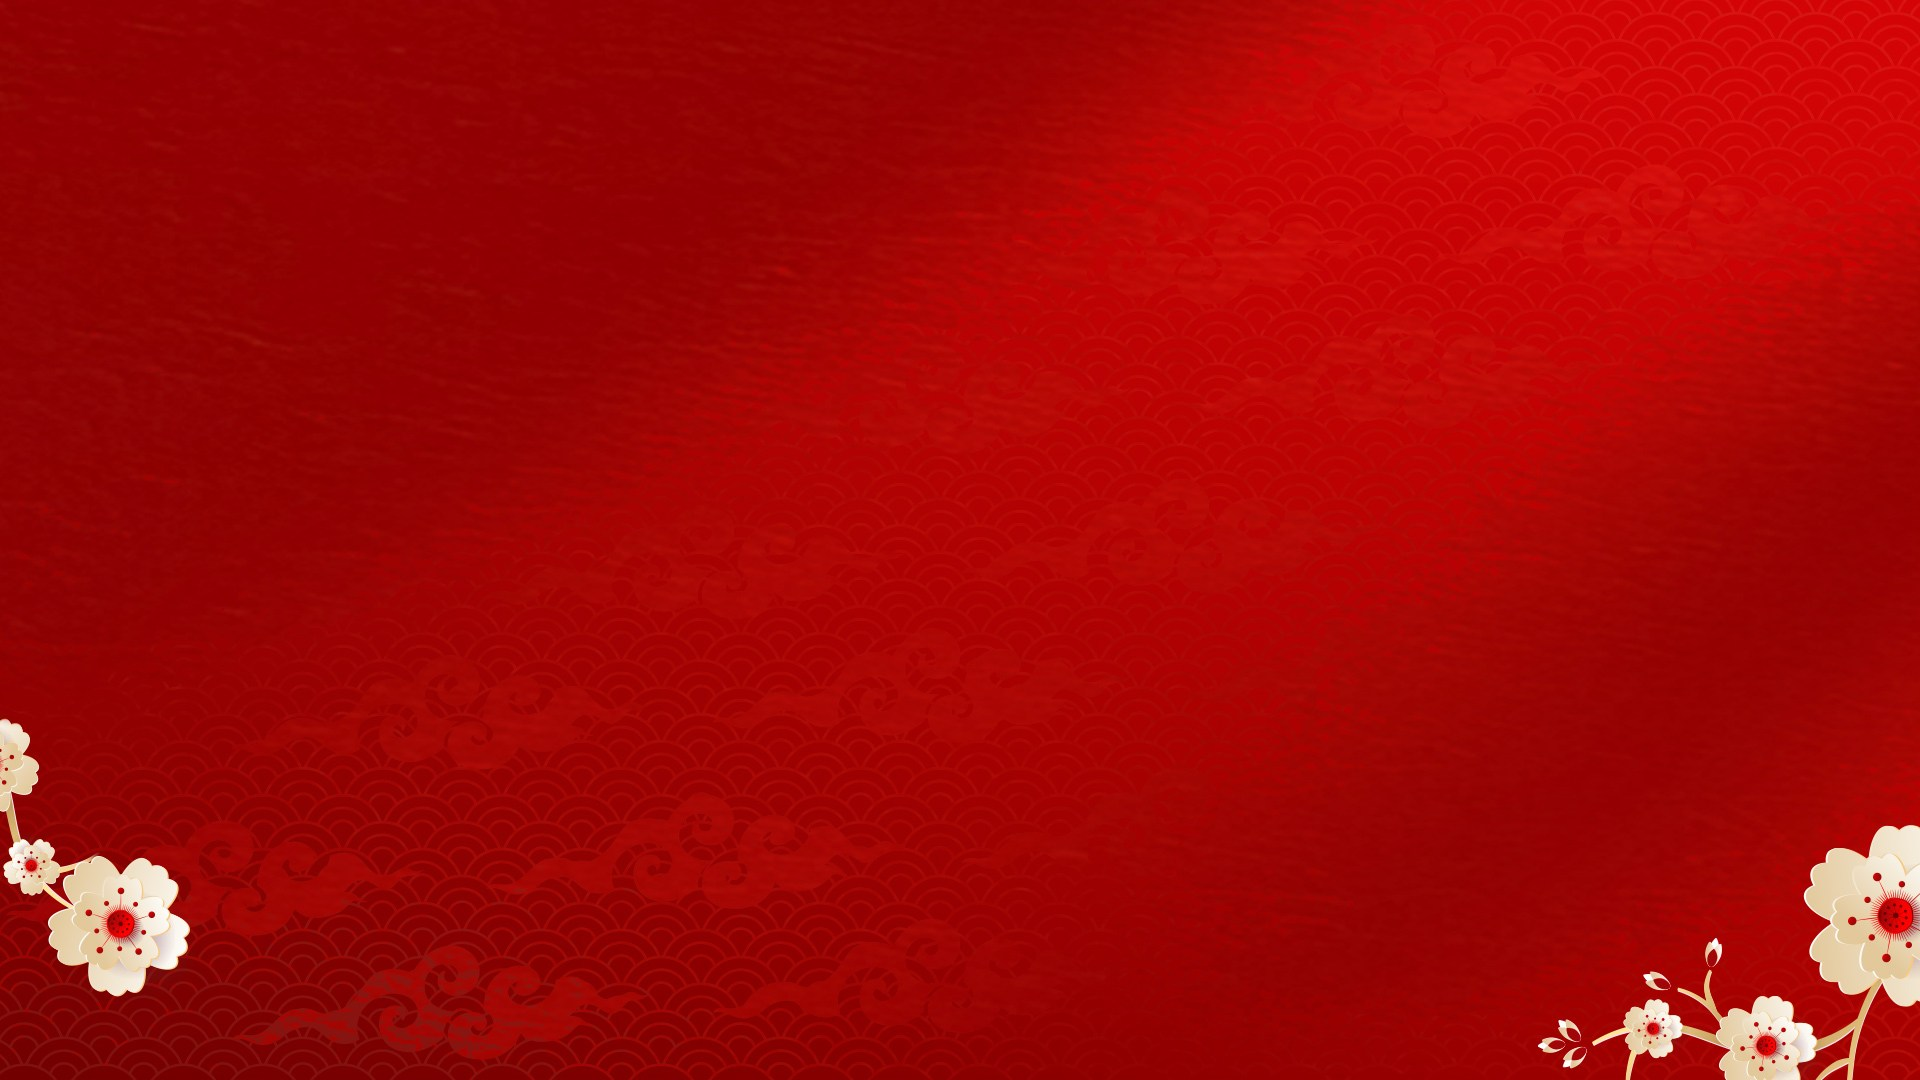
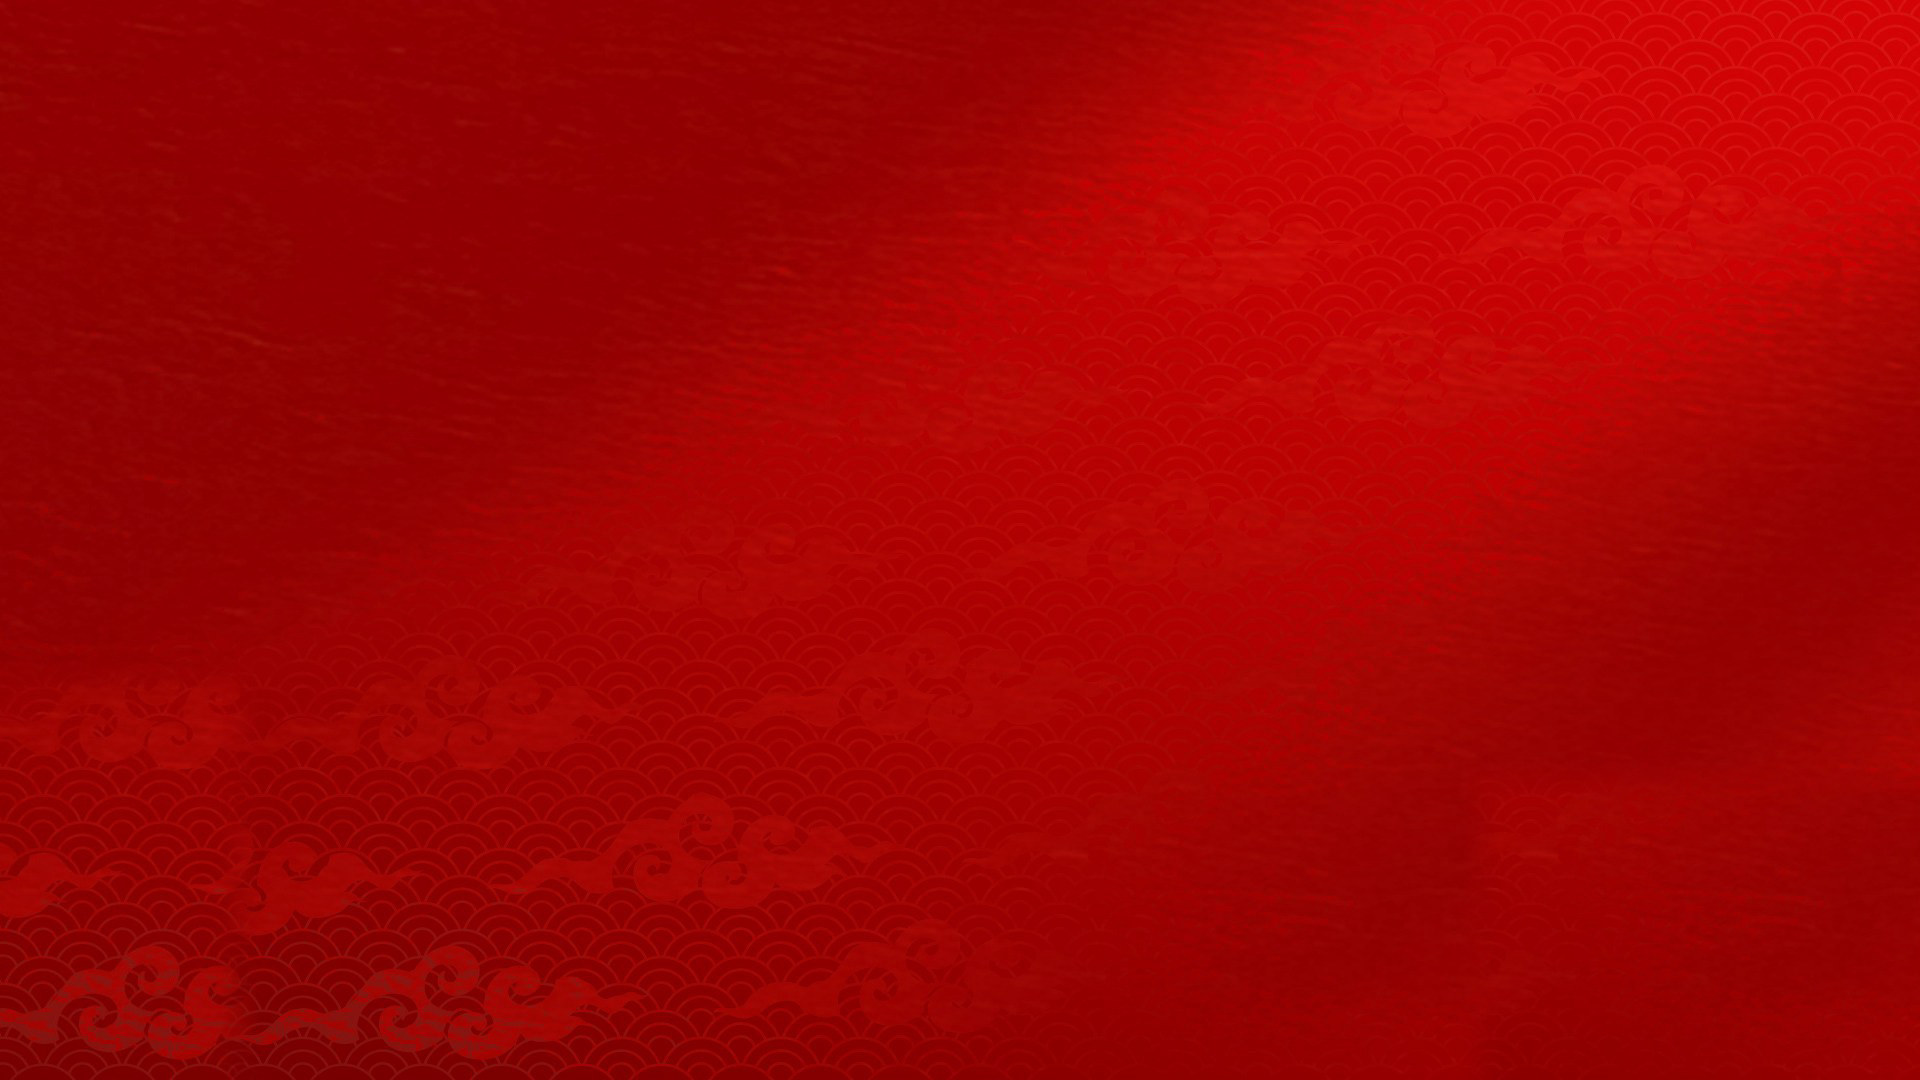
Animate side flowers, firework light bursts, and fix card text layout
- Cut bottom-left / bottom-right flower branches out of bg_index.jpg into
  flower_left/right.png, pinned to the viewport corners so they no longer
  get cropped by background-size: cover; slide in and sway gently.
- Lights moved to the bottom layer of the stage and rebuilt as inline SVG
  rays that grow out from the centre and retract like a firework, each
  light on its own delay, repeating forever.
- Card text anchored to the button baseline and auto-shrunk for long
  messages so the layout is identical at every resolution.
- index.html path now runs the card (previously stuck on the loader).

Changed region(s): [[0.7812, 0.7333, 1.0, 1.0], [0.0, 0.6722, 0.125, 0.9778]]

diff --git a/js/scripts.js b/js/scripts.js
@@ -150,6 +150,7 @@
 
           switch (pathname) {
             case '':
+            case 'index.html':
               return initCard();
             case 'form.html':
               return initForm();
@@ -179,6 +180,12 @@
           fitStage();
           $(window).on('resize', fitStage);
 
+          fitCardText();
+          // 網路字型載入後字寬會改變，再量一次
+          if (document.fonts && document.fonts.ready) {
+            document.fonts.ready.then(fitCardText);
+          }
+
           initAnimation();
 
           sendEmail(data);
@@ -191,6 +198,147 @@
             window.innerHeight / 1080
           );
           document.documentElement.style.setProperty('--stage-scale', scale);
+        }
+
+        // 賀詞放在 1920x1080 舞台座標內，跟著舞台等比縮放，
+        // 所以每個解析度的排版都一樣。文字太長時縮小字級，
+        // 讓整塊（賀詞＋署名＋按鈕）維持在「新春快樂」下方、不超出畫面。
+        // 量的是排版尺寸（不受 transform 縮放影響），結果與視窗大小無關。
+        const CARD_MAX_HEIGHT = 200; // 設計稿 y=763 ~ 963
+        const CARD_FONT_MAX = 30;
+        const CARD_FONT_MIN = 16;
+        function fitCardText() {
+          const card = document.querySelector('.card-html');
+          if (!card) return;
+          let size = CARD_FONT_MAX;
+          const apply = () => {
+            card.style.fontSize = size + 'px';
+            card.style.lineHeight = Math.round(size * 1.67) + 'px';
+          };
+          apply();
+          while (card.offsetHeight > CARD_MAX_HEIGHT && size > CARD_FONT_MIN) {
+            size -= 1;
+            apply();
+          }
+        }
+
+        // 光芒：由 8 道線段組成，每道從中心往外長出、再從中心端收回（像煙火綻放）
+        const RAY_ANGLES = [-22, 23, 68, 113, 158, 203, 248, 293];
+        const RAY_START = 82; // 線段靠中心端的 x（viewBox 150x150，中心 75）
+        const RAY_END = 136; // 線段尖端 x
+        function buildFirework(el, index) {
+          const NS = 'http://www.w3.org/2000/svg';
+          const make = (tag, attrs, parent) => {
+            const node = document.createElementNS(NS, tag);
+            Object.keys(attrs).forEach((k) => node.setAttribute(k, attrs[k]));
+            if (parent) parent.appendChild(node);
+            return node;
+          };
+          const id = 'fw' + index;
+          const svg = make('svg', { viewBox: '0 0 150 150' });
+          const defs = make('defs', {}, svg);
+          const grad = make(
+            'linearGradient',
+            {
+              id: id + 'g',
+              x1: RAY_START,
+              y1: 0,
+              x2: RAY_END,
+              y2: 0,
+              gradientUnits: 'userSpaceOnUse',
+            },
+            defs
+          );
+          [
+            [0, '#f7d27c', 0.35],
+            [0.5, '#fbe58c', 0.85],
+            [1, '#fef59a', 1],
+          ].forEach(([offset, color, opacity]) =>
+            make(
+              'stop',
+              { offset, 'stop-color': color, 'stop-opacity': opacity },
+              grad
+            )
+          );
+          const blur = make(
+            'filter',
+            { id: id + 'f', x: '-10%', y: '-10%', width: '120%', height: '120%' },
+            defs
+          );
+          make('feGaussianBlur', { stdDeviation: 0.5 }, blur);
+
+          const group = make('g', { filter: `url(#${id}f)` }, svg);
+          const clips = RAY_ANGLES.map((angle, k) => {
+            // 每道光芒用一個矩形遮罩控制「露出的那一段」
+            const clip = make(
+              'clipPath',
+              { id: `${id}c${k}`, clipPathUnits: 'userSpaceOnUse' },
+              defs
+            );
+            const rect = make(
+              'rect',
+              { x: RAY_START, y: 70, width: 0, height: 10 },
+              clip
+            );
+            const ray = make(
+              'g',
+              { transform: `rotate(${angle} 75 75)` },
+              group
+            );
+            make(
+              'path',
+              {
+                d: 'M82 75.6 L132.5 77.6 A2.6 2.6 0 0 0 132.5 72.4 L82 74.4 Z',
+                fill: `url(#${id}g)`,
+                'clip-path': `url(#${id}c${k})`,
+              },
+              ray
+            );
+            return rect;
+          });
+          el.appendChild(svg);
+          return clips;
+        }
+
+        function startFirework(el, index) {
+          const rects = buildFirework(el, index);
+          const length = RAY_END - RAY_START;
+          const tl = gsap.timeline({
+            repeat: -1,
+            repeatDelay: gsap.utils.random(0.8, 1.8),
+            // 每個光芒錯開開始時間
+            delay: index * 0.45 + gsap.utils.random(0, 0.3),
+          });
+          // 從中心往外長出
+          tl.fromTo(
+            rects,
+            { attr: { x: RAY_START, width: 0 } },
+            {
+              attr: { width: length },
+              duration: 0.9,
+              ease: 'power3.out',
+              stagger: { each: 0.04, from: 'random' },
+            }
+          );
+          // 整體微微擴散
+          tl.fromTo(
+            el,
+            { scale: 0.85, opacity: 1 },
+            { scale: 1.08, duration: 1.8, ease: 'power1.out' },
+            0
+          );
+          // 中心端往尖端收回、淡出
+          tl.to(
+            rects,
+            {
+              attr: { x: RAY_END, width: 0 },
+              duration: 0.7,
+              ease: 'power2.in',
+              stagger: { each: 0.04, from: 'random' },
+            },
+            1.3
+          );
+          tl.to(el, { opacity: 0.4, duration: 0.7, ease: 'power1.in' }, '<');
         }
 
         // 啟用動畫
@@ -271,12 +419,22 @@
             scale: 0.8,
           });
 
-          // 光芒：用圓形遮罩從中心往外長出來；起始角度各自隨機
-          gsap.set('.light', {
-            clipPath: 'circle(0% at 50% 50%)',
-            rotation: () => gsap.utils.random(0, 360),
-            transformOrigin: 'center center',
+          // 左下、右下花枝：從角落滑入，支點設在花枝根部
+          gsap.set('.flower_left', {
+            opacity: 0,
+            x: -80,
+            rotation: -8,
+            transformOrigin: '0% 15%',
           });
+          gsap.set('.flower_right', {
+            opacity: 0,
+            x: 80,
+            y: 60,
+            rotation: 8,
+            transformOrigin: '85% 100%',
+          });
+
+          gsap.set('.light', { transformOrigin: 'center center' });
 
           gsap.set('.star', {
             opacity: 0,
@@ -364,6 +522,45 @@
               },
             },
             '-=1.6'
+          );
+
+          kv.to(
+            '.flower_side',
+            {
+              opacity: 1,
+              x: 0,
+              y: 0,
+              rotation: 0,
+              duration: 1.2,
+              stagger: 0.15,
+              ease: 'power2.out',
+              onComplete: () => {
+                // 進場後隨風微微晃動，左右節奏錯開
+                gsap.fromTo(
+                  '.flower_left',
+                  { rotation: -1.5 },
+                  {
+                    rotation: 1.5,
+                    duration: 2.8,
+                    ease: 'sine.inOut',
+                    repeat: -1,
+                    yoyo: true,
+                  }
+                );
+                gsap.fromTo(
+                  '.flower_right',
+                  { rotation: 1.5 },
+                  {
+                    rotation: -1.5,
+                    duration: 3.2,
+                    ease: 'sine.inOut',
+                    repeat: -1,
+                    yoyo: true,
+                  }
+                );
+              },
+            },
+            '<'
           );
 
           kv.to(
@@ -488,38 +685,14 @@
             '-=0.8'
           );
 
-          kv.to(
-            '.light',
-            {
-              clipPath: 'circle(71% at 50% 50%)',
-              duration: 0.8,
-              stagger: 0.15,
-              ease: 'power2.out',
-              onComplete: () => {
-                document.querySelectorAll('.light').forEach((light, index) => {
-                  // 慢慢 360 度旋轉，順逆時針交錯；
-                  // 每個轉速、開始時間都不同，避免彼此同步
-                  gsap.to(light, {
-                    rotation: index % 2 === 0 ? '+=360' : '-=360',
-                    duration: gsap.utils.random(8, 20),
-                    delay: gsap.utils.random(0, 3),
-                    ease: 'none',
-                    repeat: -1,
-                  });
-
-                  // 不同步地微微閃爍
-                  gsap.to(light, {
-                    scale: 0.75,
-                    opacity: 0.6,
-                    duration: gsap.utils.random(0.8, 2.2),
-                    delay: gsap.utils.random(0, 2),
-                    ease: 'sine.inOut',
-                    repeat: -1,
-                    yoyo: true,
-                  });
-                });
-              },
+          // 光芒：像煙火一樣從中心長出線段，每個錯開時間、無限重複
+          kv.call(
+            () => {
+              document
+                .querySelectorAll('.light')
+                .forEach((light, index) => startFirework(light, index));
             },
+            null,
             '-=0.4'
           );
 

diff --git a/css/styles.css b/css/styles.css
@@ -293,7 +293,10 @@ body::-webkit-scrollbar {
 .card-link {
   display: block;
 }
-/* 賀詞文字：右緣對齊設計稿 x=1772 */
+/* 賀詞文字：右緣對齊設計稿 x=1772。
+   以底部定位（按鈕底緣 y=963），文字多時往上長；
+   字級由 scripts.js 的 fitCardText 在舞台座標內縮放，
+   因此所有解析度看到的排版都相同 */
 .card-html {
   color: #fff;
   font-size: 30px;
@@ -303,9 +306,10 @@ body::-webkit-scrollbar {
   text-shadow: 0 2px 6px rgba(120, 0, 0, 0.5);
   position: absolute;
   right: 148px;
-  top: 780px;
+  bottom: 117px;
   width: auto;
-  max-width: 620px;
+  /* 左緣不超過 x=1252，避免壓到羊腿與緞帶 */
+  max-width: 520px;
 }
 .card-html .card-content {
   width: auto;
@@ -619,6 +623,42 @@ body::-webkit-scrollbar {
   width: 147px;
   left: 427px;
   top: 954px;
+}
+
+.light svg {
+  display: block;
+  width: 100%;
+  height: auto;
+  overflow: visible;
+}
+
+/* 左下、右下花枝：貼齊視窗角落，尺寸跟著舞台比例縮放；
+   稍微推出視窗外，擺動時邊緣才不會露出空隙 */
+.flower_container {
+  width: 100%;
+  height: 100vh;
+  position: absolute;
+  top: 0;
+  left: 0;
+  overflow: hidden;
+  pointer-events: none;
+}
+
+.flower_side {
+  position: absolute;
+  filter: drop-shadow(3px 6px 6px rgba(90, 0, 0, 0.45));
+}
+
+.flower_left {
+  width: calc(205px * var(--stage-scale, 1));
+  left: calc(-8px * var(--stage-scale, 1));
+  bottom: calc(70px * var(--stage-scale, 1));
+}
+
+.flower_right {
+  width: calc(400px * var(--stage-scale, 1));
+  right: calc(-10px * var(--stage-scale, 1));
+  bottom: calc(-10px * var(--stage-scale, 1));
 }
 
 /* 全螢幕容器不攔截點擊，避免擋住舞台內的按鈕 */

diff --git a/index.html b/index.html
@@ -19,8 +19,21 @@
     <div class="bg-card"></div>
     <div class="index">
       <div class="content">
+        <!-- 左下、右下花枝：貼齊視窗角落，放在舞台後面 -->
+        <div class="flower_container">
+          <img class="flower_side flower_left" src="./images/flower_left.png" />
+          <img class="flower_side flower_right" src="./images/flower_right.png" />
+        </div>
         <!-- 1920x1080 設計稿舞台，座標直接對應 card.jpg -->
         <div class="items">
+          <!-- 光芒放在舞台最底層，不擋到前面畫面；內容由 scripts.js 產生 SVG 線段 -->
+          <div class="item light light1"></div>
+          <div class="item light light2"></div>
+          <div class="item light light3"></div>
+          <div class="item light light4"></div>
+          <div class="item light light5"></div>
+          <div class="item light light6"></div>
+
           <img class="item flower_top" src="./images/flower_top.png" />
 
           <img class="item goat" src="./images/goat.png" />
@@ -54,13 +67,6 @@
             class="item slogan slogan_image_3"
             src="./images/slogan_image_3.png"
           />
-
-          <img class="item light light1" src="./images/light.svg" />
-          <img class="item light light2" src="./images/light.svg" />
-          <img class="item light light3" src="./images/light.svg" />
-          <img class="item light light4" src="./images/light.svg" />
-          <img class="item light light5" src="./images/light.svg" />
-          <img class="item light light6" src="./images/light.svg" />
 
           <div class="card card-html">
             <div class="card-content"></div>
